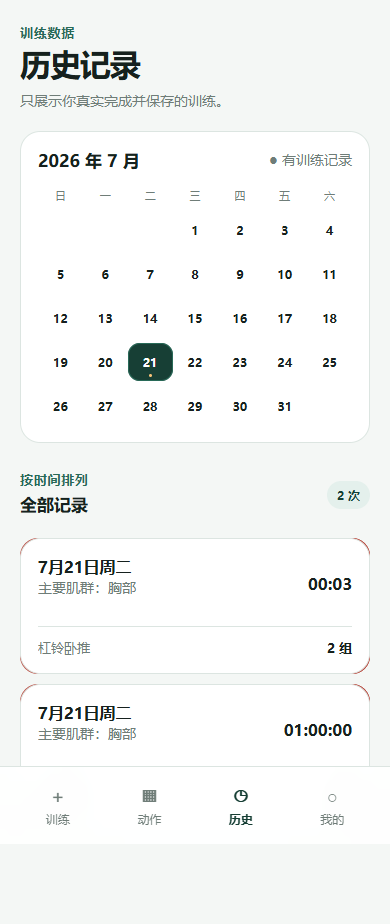
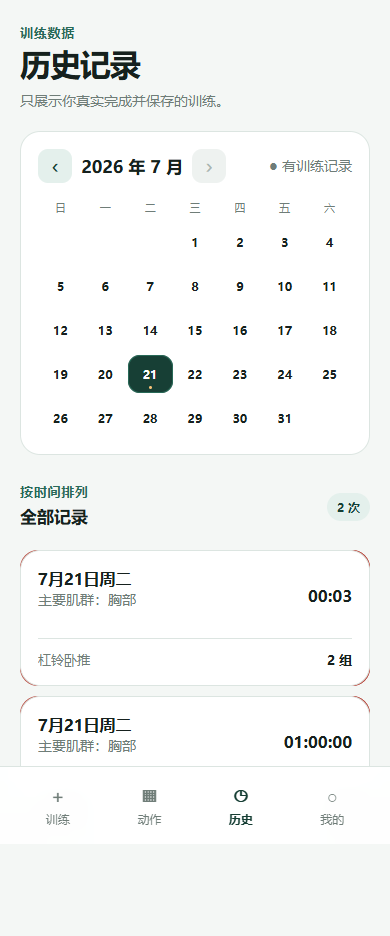
Add history calendar navigation

diff --git a/prototype/app.js b/prototype/app.js
@@ -70,9 +70,9 @@ const muscleGroups = ["胸部", "背部", "肩部", "手臂", "腿"];
 
 function emptyState() {
   return {
-    version: 6, screen: "train", activeExercise: 0, activeDetailId: null, pendingSetIndex: null,
+    version: 7, screen: "train", activeExercise: 0, activeDetailId: null, pendingSetIndex: null,
     workout: null, history: [], summary: null, unit: "kg", query: "", groupFilter: "胸部",
-    editingDateKey: null, editingHistoryId: null, editingWorkout: null, libraryContext: null,
+    editingDateKey: null, editingHistoryId: null, editingWorkout: null, libraryContext: null, calendarOffset: 0,
     profile: { height: "", weight: "", age: "", gender: "未设置", benchMax: "", pullupMax: "", pushupMax: "", squatMax: "" }
   };
 }
@@ -85,7 +85,7 @@ function loadState() {
     const parsed = JSON.parse(localStorage.getItem(STORAGE_KEY));
     if (!parsed) return emptyState();
     const fresh = emptyState();
-    return { ...fresh, ...parsed, version: 6, profile: { ...fresh.profile, ...(parsed.profile || {}) } };
+    return { ...fresh, ...parsed, version: 7, profile: { ...fresh.profile, ...(parsed.profile || {}) } };
   } catch {
     return emptyState();
   }
@@ -418,8 +418,9 @@ function localDateKey(timestamp) {
 
 function calendarHtml() {
   const today = new Date();
-  const year = today.getFullYear();
-  const month = today.getMonth();
+  const cursor = new Date(today.getFullYear(), today.getMonth() + state.calendarOffset, 1);
+  const year = cursor.getFullYear();
+  const month = cursor.getMonth();
   const firstWeekday = new Date(year, month, 1).getDay();
   const days = new Date(year, month + 1, 0).getDate();
   const trained = new Set(state.history.map(workout => localDateKey(workout.startedAt)));
@@ -427,11 +428,11 @@ function calendarHtml() {
   for (let i = 0; i < firstWeekday; i++) cells.push(`<span class="calendar-day blank"></span>`);
   for (let day = 1; day <= days; day++) {
     const key = `${year}-${month + 1}-${day}`;
-    const isToday = day === today.getDate();
+    const isToday = year === today.getFullYear() && month === today.getMonth() && day === today.getDate();
     const isTrained = trained.has(key);
     cells.push(`<button class="calendar-day ${isToday ? "today" : ""} ${isTrained ? "trained" : ""}" data-calendar-date="${key}"><b>${day}</b>${isTrained ? "<i></i>" : ""}</button>`);
   }
-  return `<article class="calendar-card"><div class="between"><h3>${year} 年 ${month + 1} 月</h3><span class="subtle">● 有训练记录</span></div><div class="week-row">${["日", "一", "二", "三", "四", "五", "六"].map(day => `<span>${day}</span>`).join("")}</div><div class="calendar-grid">${cells.join("")}</div></article>`;
+  return `<article class="calendar-card"><div class="calendar-header"><div class="calendar-controls"><button data-action="previous-calendar-month" aria-label="上一个月">‹</button><h3>${year} 年 ${month + 1} 月</h3><button data-action="next-calendar-month" aria-label="下一个月" ${state.calendarOffset >= 0 ? "disabled" : ""}>›</button></div>${state.calendarOffset < 0 ? `<button class="text-button" data-action="current-calendar-month">回到本月</button>` : `<span class="subtle">● 有训练记录</span>`}</div><div class="week-row">${["日", "一", "二", "三", "四", "五", "六"].map(day => `<span>${day}</span>`).join("")}</div><div class="calendar-grid">${cells.join("")}</div></article>`;
 }
 
 function renderHistory() {
@@ -689,6 +690,9 @@ function addExercise(id) {
 
 function handleAction(action, el) {
   if (action === "start-workout") return startWorkout();
+  if (action === "previous-calendar-month") { state.calendarOffset -= 1; saveState(); return render(); }
+  if (action === "next-calendar-month") { state.calendarOffset = Math.min(0, state.calendarOffset + 1); saveState(); return render(); }
+  if (action === "current-calendar-month") { state.calendarOffset = 0; saveState(); return render(); }
   if (action === "go-train") { state.screen = "train"; saveState(); return render(); }
   if (action === "back-workout") { state.screen = "workout"; saveState(); return render(); }
   if (action === "open-library") { state.screen = "exercises"; saveState(); return render(); }

diff --git a/prototype/smoke-test.js b/prototype/smoke-test.js
@@ -89,6 +89,12 @@ const { pathToFileURL } = require("url");
   await page.locator('[data-nav="history"]').click();
   if (await page.locator(".recent-record").count() !== 2) throw new Error("训练历史未保存");
   if (await page.locator(".calendar-day.trained").count() !== 1) throw new Error("训练日未在日历标记");
+  const currentMonthLabel = await page.locator(".calendar-controls h3").textContent();
+  await page.getByRole("button", { name: "上一个月" }).click();
+  if (await page.locator(".calendar-controls h3").textContent() === currentMonthLabel) throw new Error("日历无法翻到上一个月");
+  if (!await page.getByRole("button", { name: "下一个月" }).isEnabled()) throw new Error("日历返回下一月按钮不可用");
+  await page.getByRole("button", { name: "回到本月" }).click();
+  if (await page.locator(".calendar-controls h3").textContent() !== currentMonthLabel) throw new Error("日历无法回到本月");
   await page.locator(".calendar-day.trained").click();
   await page.locator(".recent-record").first().click();
   await page.getByRole("button", { name: "编辑记录" }).click();

diff --git a/prototype/styles.css b/prototype/styles.css
@@ -405,6 +405,11 @@ h3 { margin-bottom: 5px; font-size: 17px; }
 
 .calendar-card { margin-top: 20px; padding: 17px; border: 1px solid var(--line); border-radius: 20px; background: white; }
 .calendar-card h3 { margin: 0; }
+.calendar-header { display: flex; align-items: center; justify-content: space-between; gap: 10px; }
+.calendar-controls { display: flex; align-items: center; gap: 8px; }
+.calendar-controls button { display: grid; place-items: center; width: 34px; height: 34px; padding: 0; border: 0; border-radius: 10px; color: var(--green); background: var(--green-soft); font-size: 22px; }
+.calendar-controls button:disabled { color: #aab5b1; background: #eef2f0; }
+.calendar-controls h3 { min-width: 104px; text-align: center; }
 .week-row, .calendar-grid { display: grid; grid-template-columns: repeat(7, 1fr); text-align: center; }
 .week-row { margin-top: 17px; color: var(--muted); font-size: 11px; }
 .calendar-grid { row-gap: 6px; margin-top: 8px; }

diff --git a/prototype/service-worker.js b/prototype/service-worker.js
@@ -1,4 +1,4 @@
-const CACHE_NAME = "strength-journal-v5";
+const CACHE_NAME = "strength-journal-v6";
 const APP_FILES = ["./", "./index.html", "./styles.css", "./app.js", "./manifest.webmanifest", "./icon.svg"];
 
 self.addEventListener("install", event => {

diff --git a/README.md b/README.md
@@ -24,7 +24,7 @@
 - 每个动作下逐组记录：开始本组 → 结束本组 → 填写重量与次数。
 - 自动计算每组持续时间、动作内组间歇和动作总用时。
 - 结束训练后可保存一段文字心得或备注。
-- 历史日历标记训练日；点击任意日期可新增或修改当日记录，记录卡片左滑可删除。
+- 历史日历标记训练日；支持按月向前翻页和一键回到本月，点击任意日期可新增或修改当日记录，记录卡片左滑可删除。
 - 训练首页的总时长实时更新，并提供红色快捷结束按钮。
 - “先添加一个动作”等带加号的空状态可以直接点击。
 - 动作库和动作详情始终保留底部导航，可直接切换训练、动作、历史和我的。